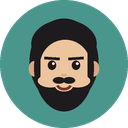
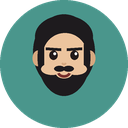
Draw every face at the same size and height
One face size and one centre for all four, set so Азамат's long beard
still ends inside the disc. Only Аслан's and Имран's face widths differ,
as their descriptions ask.

Claude-Session: https://claude.ai/code/session_01VVyC4KaHFkdZjDhihxHS3w

Changed region(s): [[0.2188, 0.25, 0.7812, 0.875], [0.2812, 0.0938, 0.7188, 0.25]]

diff --git a/tool/generate_avatars.py b/tool/generate_avatars.py
@@ -36,14 +36,18 @@ MOUTH = (120, 48, 44, 255)
 FRAME = (28, 28, 36, 255)
 CHEEK = (236, 140, 130, 90)
 
+# Every face is drawn at the same size and height, sized so the longest
+# beard still ends inside the disc. Only the face's width differs, where
+# the description asks for a slimmer face.
+FACE_SIZE = 0.88
+FACE_CENTRE = 0.45
+
 PEOPLE = [
-    # file, background, hair, face width, beard, glasses, face size, centre
-    # The long beard needs the face smaller and higher to end inside the
-    # disc rather than run off its edge.
-    ('azamat', (196, 160, 92, 255), BLACK_HAIR, 1.0, 'long', False, 0.86, 0.44),
-    ('aslan', (74, 150, 140, 255), BLACK_HAIR, 0.78, 'short', False, 1.0, 0.53),
-    ('muhammad', (132, 102, 176, 255), BROWN_HAIR, 1.0, 'medium', True, 1.0, 0.52),
-    ('imran', (78, 128, 200, 255), BLACK_HAIR, 0.96, 'sparse', True, 1.0, 0.53),
+    # file, background, hair, face width, beard, glasses
+    ('azamat', (196, 160, 92, 255), BLACK_HAIR, 1.0, 'long', False),
+    ('aslan', (74, 150, 140, 255), BLACK_HAIR, 0.78, 'short', False),
+    ('muhammad', (132, 102, 176, 255), BROWN_HAIR, 1.0, 'medium', True),
+    ('imran', (78, 128, 200, 255), BLACK_HAIR, 0.96, 'sparse', True),
 ]
 
 # How much of the hair colour shows through each beard. Stubble is the same
@@ -58,7 +62,8 @@ def ellipse(draw, cx, cy, rx, ry, **kw):
     draw.ellipse((cx - rx, cy - ry, cx + rx, cy + ry), **kw)
 
 
-def face(background, hair, width, beard, glasses, size, centre):
+def face(background, hair, width, beard, glasses,
+         size=FACE_SIZE, centre=FACE_CENTRE):
     image = Image.new('RGBA', (S, S), (0, 0, 0, 0))
     draw = ImageDraw.Draw(image)
     cx, cy = S / 2, S * centre
